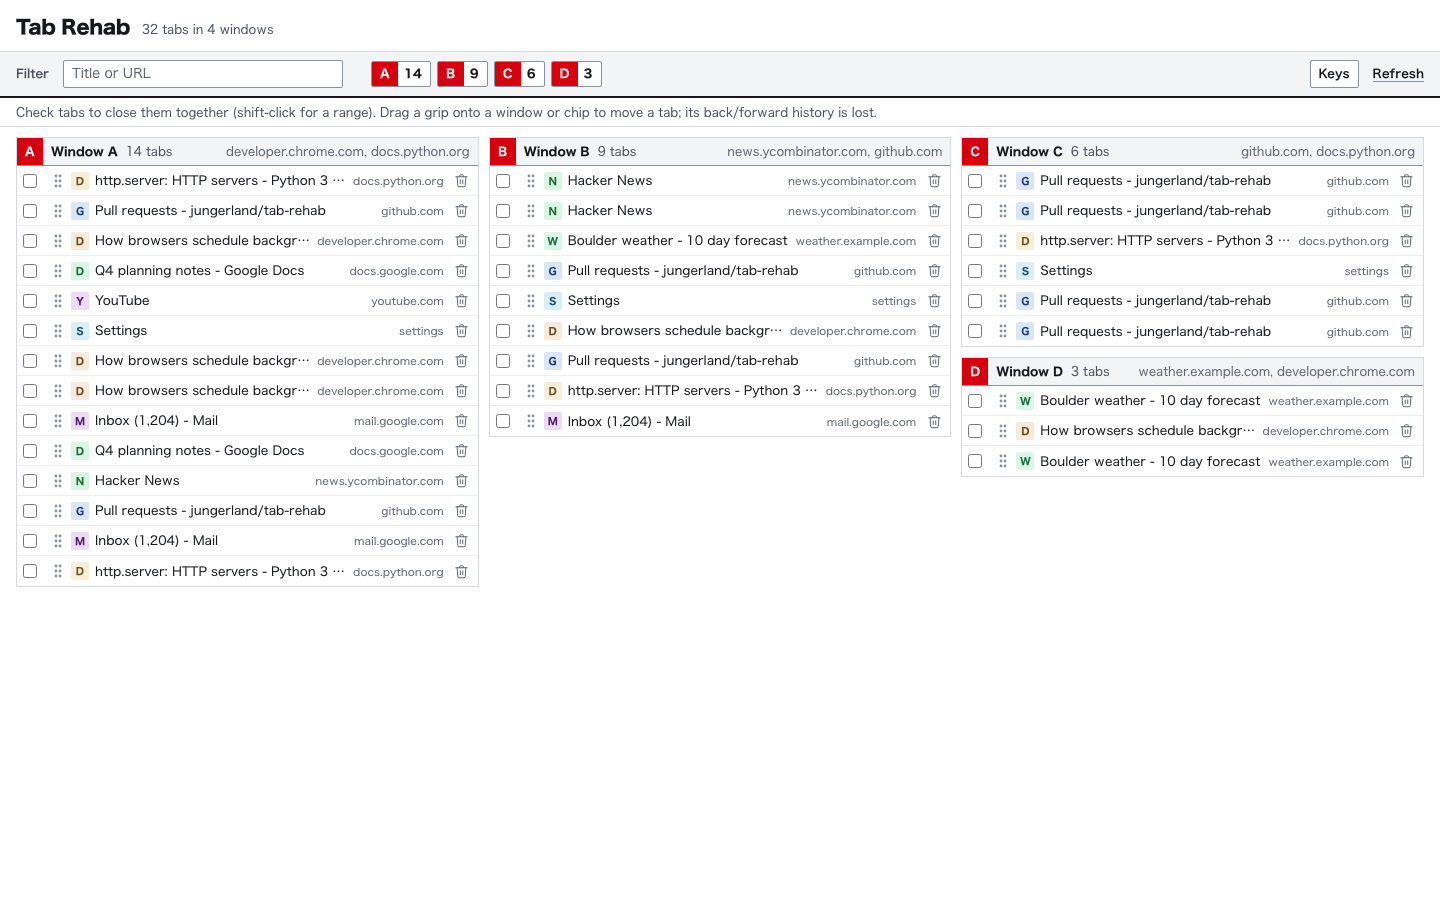
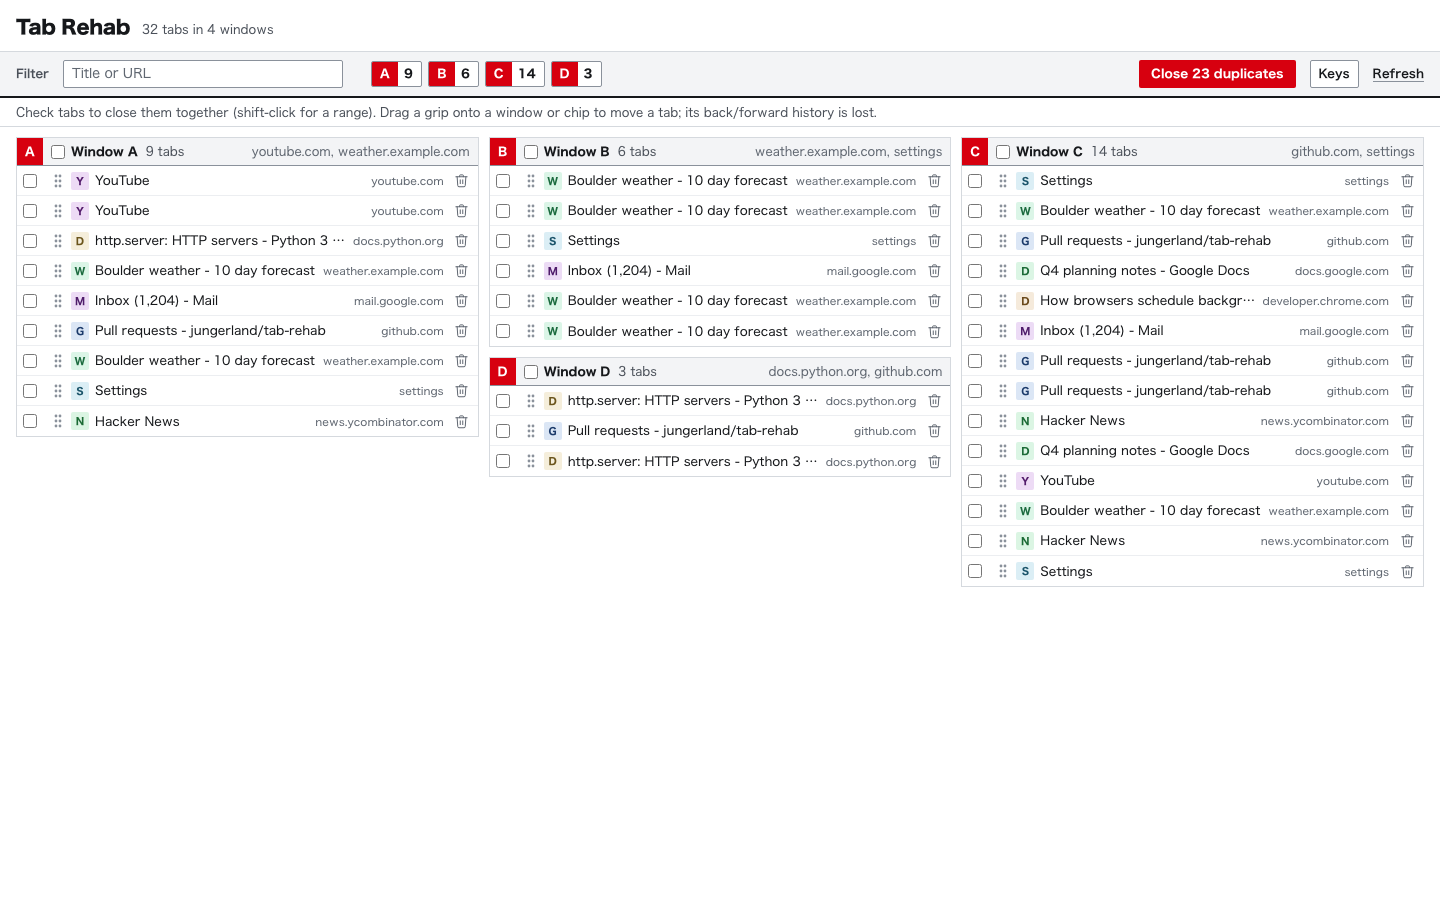
Docs and review screenshots for the critique fixes

diff --git a/DESIGN.md b/DESIGN.md
@@ -166,9 +166,9 @@ Site monograms are the one place other hues appear. Each host gets a hue from it
 
 ## Layout
 
-A sticky Panel Gray bar sits under a short header and holds, left to right: the labeled filter, the "N of M" count, purge buttons when relevant, one chip per window, then the recently closed tray, Keys, and Refresh pushed right. A 2px Ink rule closes the bar. Below it, a single one-line hint, then the window modules.
+A sticky Panel Gray bar sits under a short header and holds, left to right: the labeled filter, the "N of M" count, one chip per window, purge buttons when relevant (close selected, close all shown, close duplicates), then the recently closed tray, Keys, and Refresh pushed right. Chips sit before the purge buttons so they never shift when a button appears. A 2px Ink rule closes the bar. Below it, a single one-line hint, then the window modules.
 
-Modules flow in CSS columns (column width 460px, 10px gap, 10px between modules), so short windows pack under each other instead of leaving holes. Modules never break across columns. Page padding is 16px at the sides.
+Modules pack into fixed columns (at least 460px wide, 10px gap, 10px between modules), so short windows sit under each other instead of leaving holes. Each window is assigned to a column once, at page load, by shortest column first, and stays there while tabs close; the page repacks only when a window resize changes the column count. Windows are lettered by Chrome window id and keep their letter for as long as the server runs. Page padding is 16px at the sides.
 
 Rows are a fixed grid: checkbox, grip, monogram, title (flexible, ellipsis), host (max 170px), trash. View, copy, and move appear on hover or focus as an overlay on top of the host cell, so the row never reflows.
 

diff --git a/README.md b/README.md
@@ -2,11 +2,12 @@
 
 A local web page that lists every open Google Chrome tab, grouped by window, so you can kick the tab habit fast.
 
-- **View** a tab (eye icon) to bring its window to the front and switch to it.
-- **Close** any tab with one click (trash icon).
-- **Move** a tab to another window by dragging its grip onto that window.
-- **Filter** by title or URL.
-- Click a URL to open it, or use the copy icon to put the clean URL on your clipboard.
+- **Switch** to a tab by clicking its title (or the eye icon). Cmd-click opens the URL as a new tab instead.
+- **Close** any tab with one click (trash icon), or check several (one window at a time with its header checkbox) and close them together.
+- **Close duplicates** keeps the first copy of each page and closes the rest.
+- **Undo** reopens what you just closed (press `u`), without back/forward history.
+- **Move** a tab to another window by dragging its grip, or with the move button (`m`).
+- **Filter** by title or URL. Press "Keys" on the page for every shortcut.
 
 macOS only. It talks to Chrome through AppleScript. Python 3 standard library, no dependencies.
 
